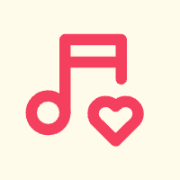
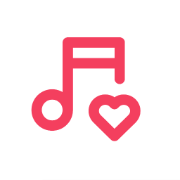
pwa changes to #fff and small add new album dialog improvements

Changed region(s): [[0.1389, 0.1667, 0.7222, 0.7778], [0.4722, 0.5, 0.8056, 0.8333], [0.5278, 0.6111, 0.5556, 0.6389]]

diff --git a/src/components/SpotifyAlbumsAutocomplete.vue b/src/components/SpotifyAlbumsAutocomplete.vue
@@ -1,8 +1,9 @@
 <script setup lang="ts">
-import { ref, watch } from 'vue'
+import { ref } from 'vue'
 import { Combobox, ComboboxInput, ComboboxOptions, ComboboxOption, TransitionRoot } from '@headlessui/vue'
 import { fetchAlbums } from '@/spotify';
 import { IconBrandSpotify } from '@tabler/icons-vue'
+import type { Album } from '@/types.ts';
 
 const emit = defineEmits(['getAlbumData'])
 
@@ -10,22 +11,21 @@ const albums = ref([])
 const selected = ref()
 const fetchSpotifyAlbums = async (query: string) => {
   albums.value = await fetchAlbums(query)
-  console.log(albums.value)
 }
 
-watch(selected, (value) => {
+const handleAlbumSelect = (album: Album) => {
   emit('getAlbumData', {
-    cover: value.images[1].url,
-    title: value.name,
-    artist: value.artists[0].name,
-    year: value.release_date.slice(0, 4),
-    spotifyUrl: value.external_urls.spotify,
+    cover: album.images[1].url,
+    title: album.name,
+    artist: album.artists[0].name,
+    year: album.release_date.slice(0, 4),
+    spotifyUrl: album.external_urls.spotify,
   })
-})
+}
 </script>
 
 <template>
-    <Combobox v-model="selected">
+    <Combobox v-model="selected" @update:model-value="handleAlbumSelect">
       <div class="relative mt-1 w-full">
         <div class="w-full flex border-zinc-700/20 border-2 rounded sp-1">
           <IconBrandSpotify class="text-green-500 mr-1" />
@@ -41,7 +41,7 @@ watch(selected, (value) => {
               :value="album"
               v-slot="{ selected, active }"
             >
-              <li class="relative cursor-default select-none p-1" :class="{ 'bg-zinc-400 text-zinc-50': active, 'text-black': !active }">
+              <li class="relative cursor-default select-none p-1" :class="{ 'bg-green-400 text-zinc-50': active, 'text-black': !active }">
                 <div class="flex items-center gap-2 truncate" :class="{ 'font-medium': selected, 'font-normal': !selected }">
                   <img v-if="album.images.length" :src="album.images[2].url" class="size-10 rounded" alt="album cover">
                   <span class="font-medium">

diff --git a/index.html b/index.html
@@ -1,14 +1,16 @@
 <!doctype html>
 <html lang="en">
-<head>
-    <meta charset="UTF-8" />
-    <link rel="icon" type="image/png" href="/favicon.ico" />
-    <link rel="apple-touch-icon" href="/apple-touch-icon.png">
-    <meta name="viewport" content="width=device-width, initial-scale=1.0" />
-    <meta name="description" content="Tracking and reviewing music albums">
-    <meta name="theme-color" content="#fffbeb">
-    <title>Music Heart</title>
-</head>
+    <head>
+        <meta charset="UTF-8" />
+        <link rel="icon" type="image/png" href="/favicon.ico" />
+        <link rel="apple-touch-icon" sizes="180x180" href="/apple-touch-icon.png">
+        <link rel="icon" type="image/png" sizes="32x32" href="/favicon-32x32.png">
+        <link rel="icon" type="image/png" sizes="16x16" href="/favicon-16x16.png">
+        <meta name="viewport" content="width=device-width, initial-scale=1.0" />
+        <meta name="description" content="Tracking and reviewing music albums">
+        <meta name="theme-color" content="#ffffff">
+        <title>Music Heart</title>
+    </head>
     <body class="hide-scroll-bar">
         <div id="app"></div>
         <script type="module" src="/src/main.ts"></script>

diff --git a/src/components/AlbumDialog.vue b/src/components/AlbumDialog.vue
@@ -82,7 +82,7 @@ const fillForm = (album: Album) => {
               <div class="mt-2 flex gap-2">
                 <div class="relative">
                   <input id="cover" type="file" accept="image/*" class="hide-file-input text-transparent block size-24 rounded-md border-2 border-dashed border-zinc-700/20" @change="onFileChange">
-                  <img v-if="coverPreview" :src="coverPreview" alt="cover preview" class="absolute inset-0 -z-10 rounded-md">
+                  <img v-if="coverPreview" :src="coverPreview" alt="cover preview" class="absolute inset-0 pointer-events-none rounded-md">
                   <IconPhotoDown size="35" stroke-width="1.5" class="absolute top-1/2 left-1/2 -translate-x-1/2 -translate-y-1/2 -z-20 text-zinc-300" />
                 </div>
                 <div class="space-y-2 h-full">

diff --git a/vite.config.ts b/vite.config.ts
@@ -19,20 +19,15 @@ export default defineConfig({
         name: 'Music Heart',
         short_name: 'Music Heart',
         description: 'Tracking and reviewing music albums',
-        theme_color: '#fffbeb',
+        theme_color: '#ffffff',
         icons: [
           {
-            src: 'pwa-96x96.png',
-            sizes: '96x96',
-            type: 'image/png'
-          },
-          {
-            src: 'pwa-192x192.png',
+            src: 'android-chrome-192x192.png',
             sizes: '192x192',
             type: 'image/png'
           },
           {
-            src: 'pwa-512x512.png',
+            src: 'android-chrome-512x512.png',
             sizes: '512x512',
             type: 'image/png'
           }
